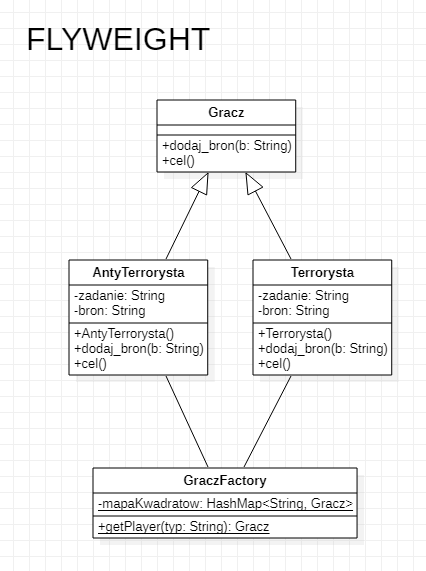
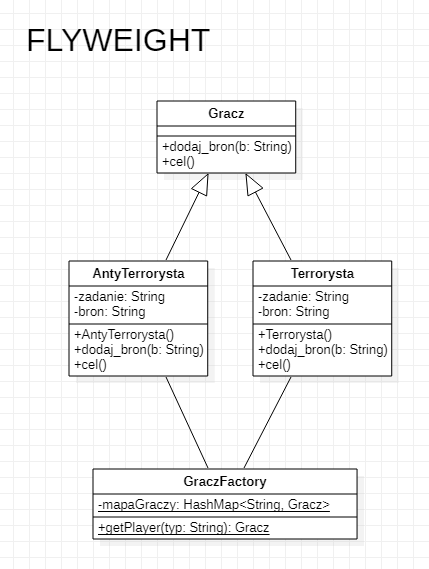
Flyweight

diff --git a/23 DAYS CHALLANGE WZORCOWY/Flyweight/Flyweight/src/GraczFactory.java b/23 DAYS CHALLANGE WZORCOWY/Flyweight/Flyweight/src/GraczFactory.java
@@ -1,11 +1,11 @@
 import java.util.*;
 public class GraczFactory {
-    private static HashMap<String, Gracz> mapaKwadratow = new HashMap<String, Gracz>();
+    private static HashMap<String, Gracz> mapaGraczy = new HashMap<String, Gracz>();
 
     public static Gracz getPlayer(String typ) {
         Gracz g = null;
-        if(mapaKwadratow.containsKey(typ))
-            g = mapaKwadratow.get(typ);
+        if(mapaGraczy.containsKey(typ))
+            g = mapaGraczy.get(typ);
         else
         {
             switch (typ) {
@@ -18,7 +18,7 @@ public class GraczFactory {
                     g = new Terrorysta();
                     break;
             }
-            mapaKwadratow.put(typ, g);
+            mapaGraczy.put(typ, g);
         }
         return g;
     }
